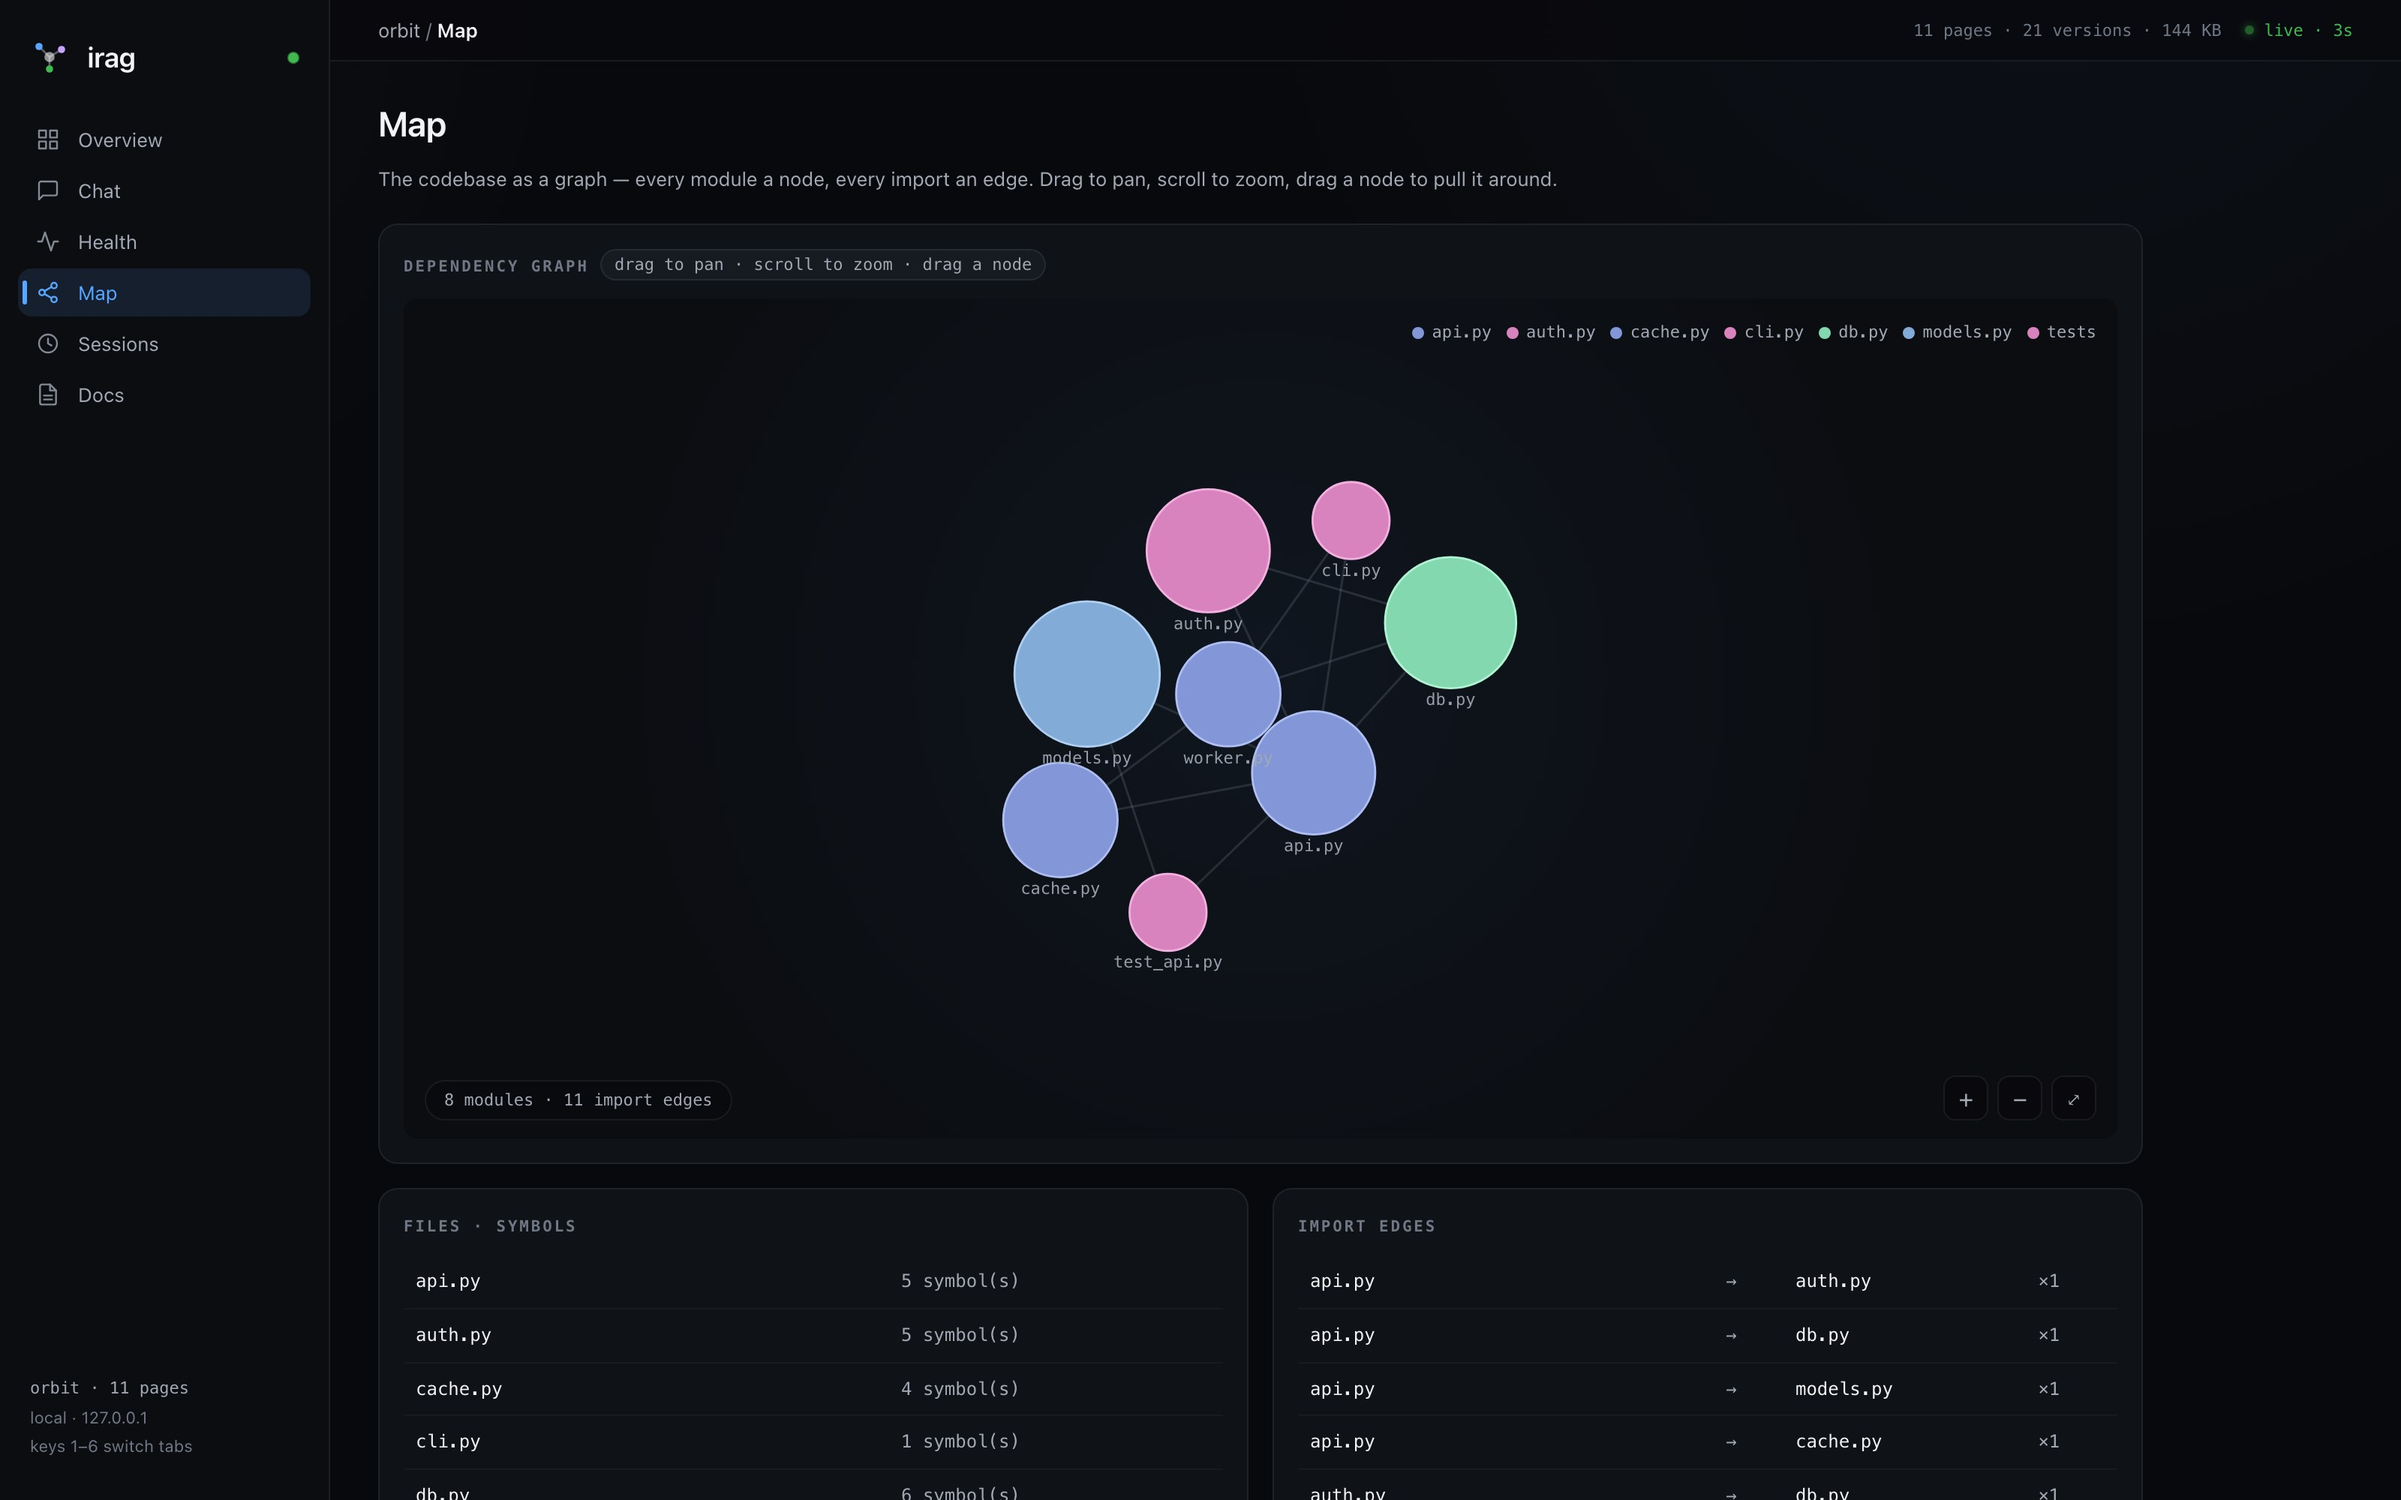
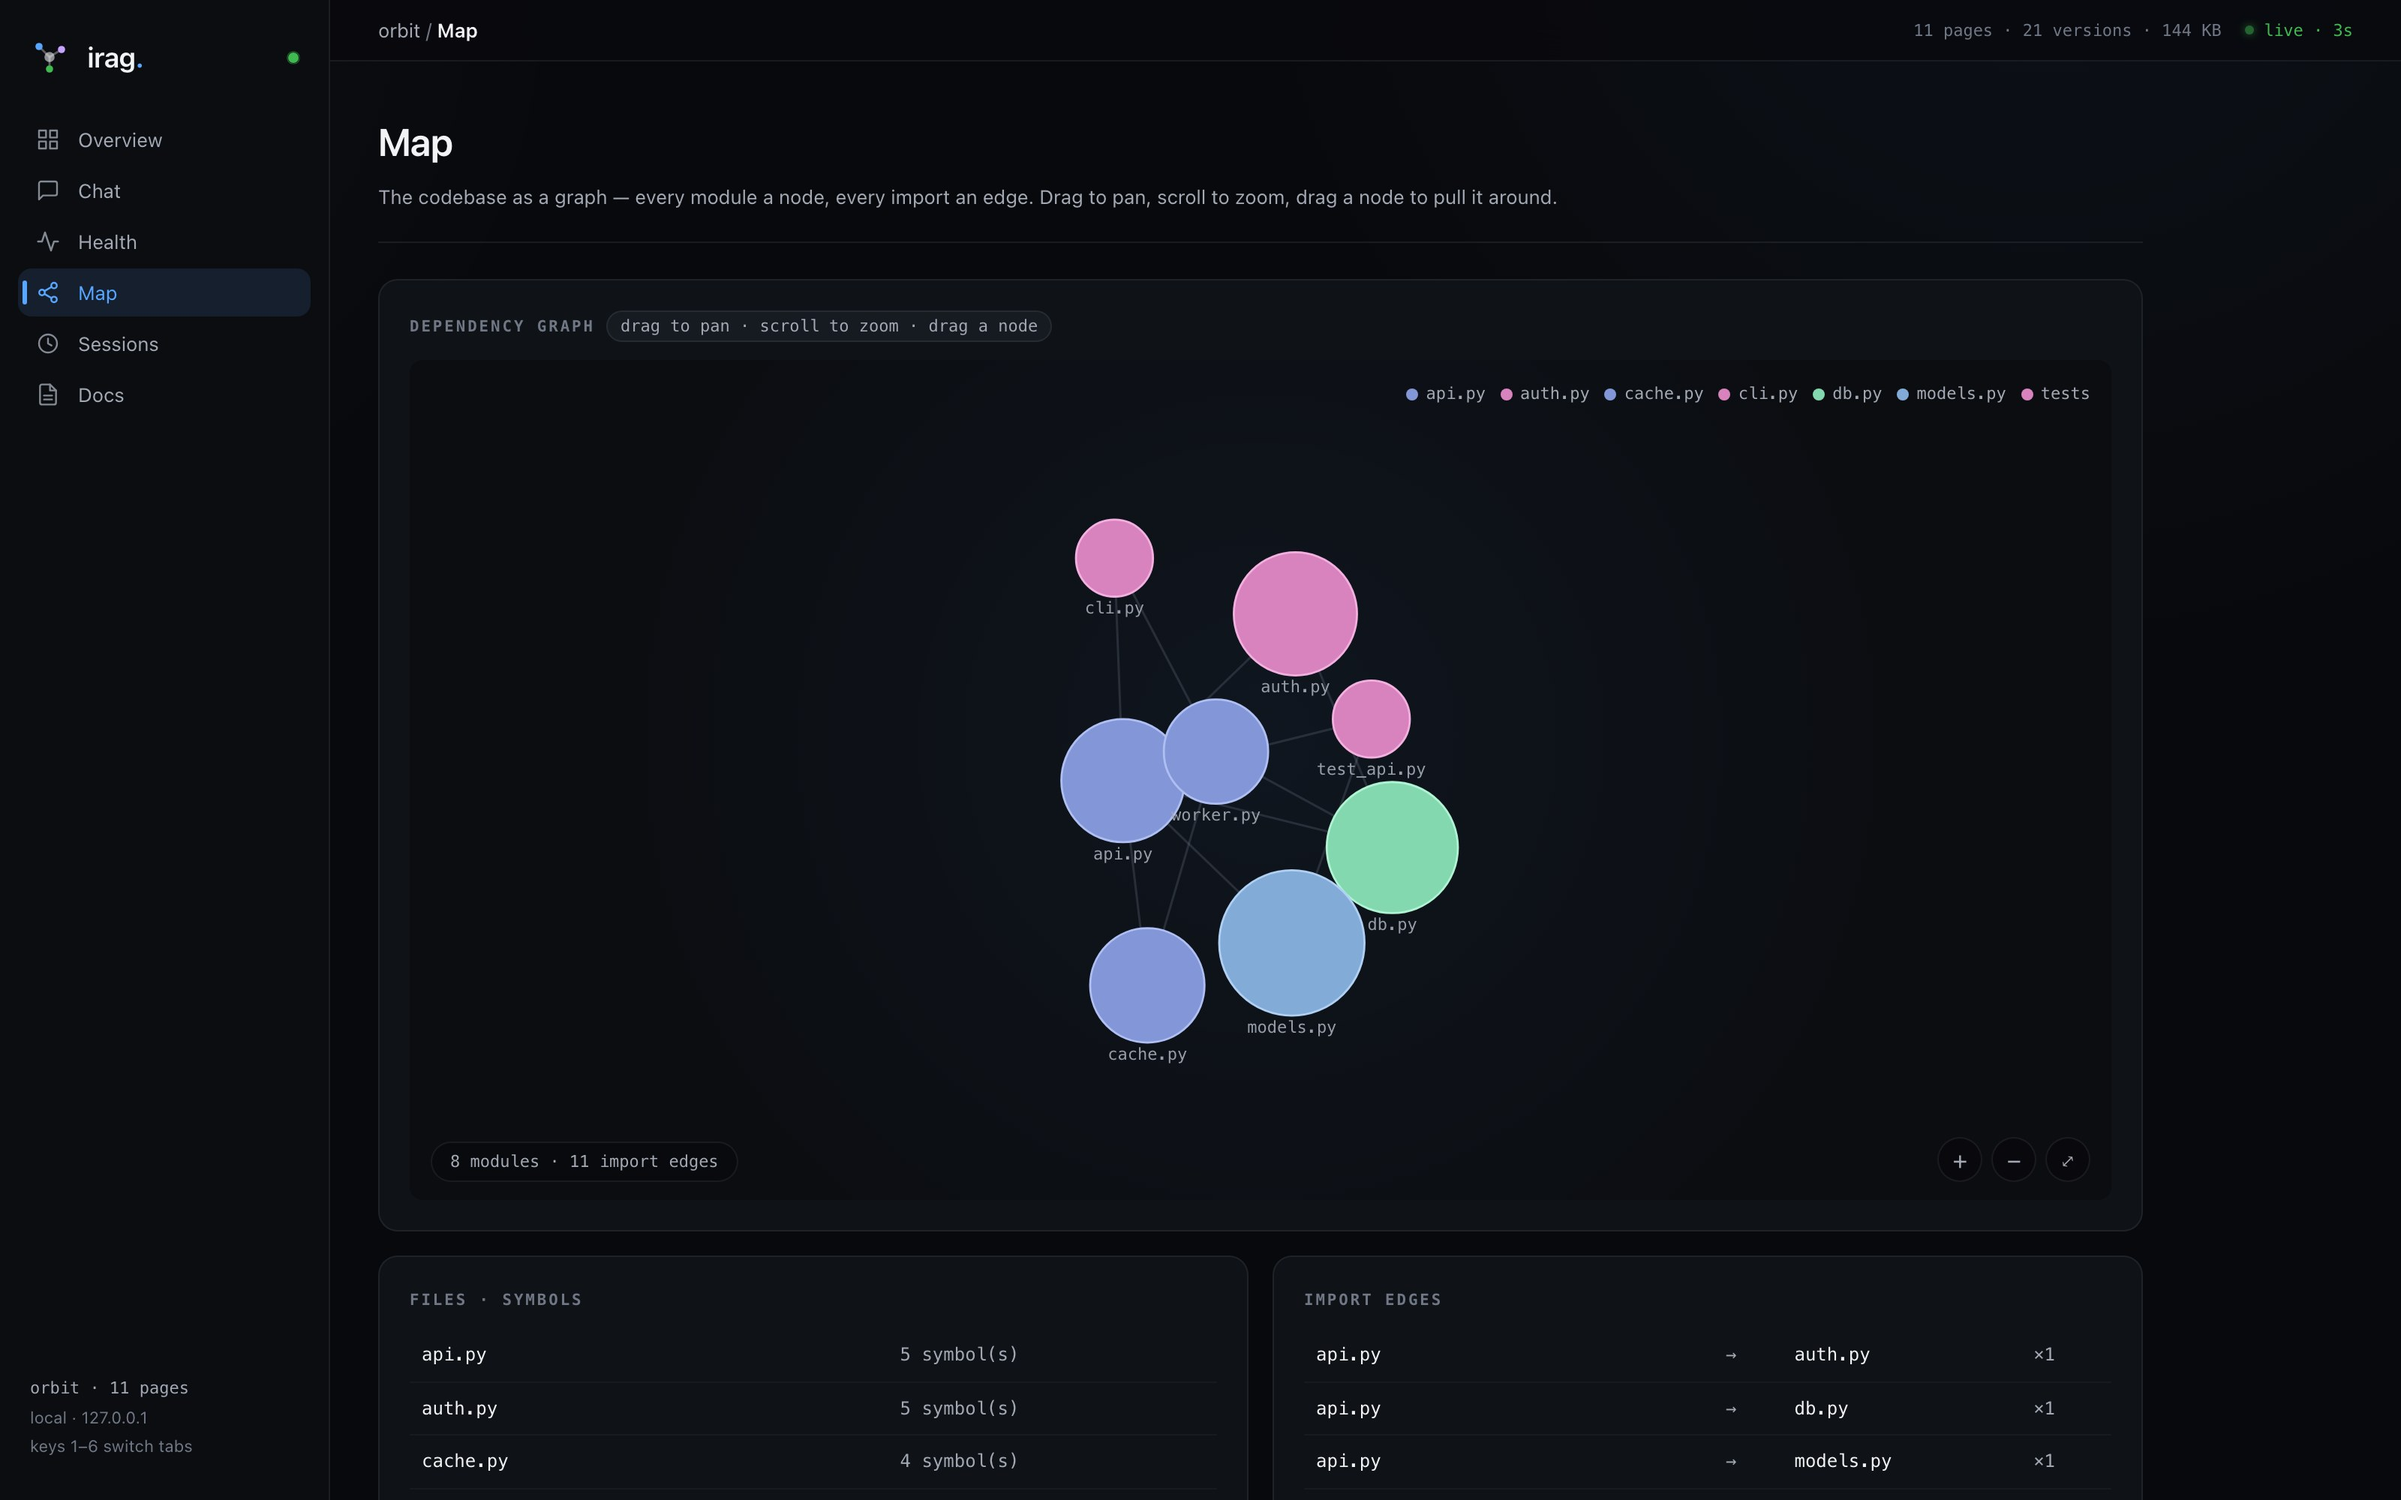
dashboard: editorial pass — hairline stat ledger, brand-blue burn curve
Brings the dashboard all the way to the landing page's language:

- metric cards become a hairline-divided stat ledger (3x3, exact fill;
  2-col with a hero stat on mobile) — no boxes, Clash Display numerals,
  mono labels; count-up kept, hover-lift dropped
- token-burn chart moves from purple to the single brand accent, with
  a fainter hairline grid; purple stays reserved for scribe/AI
  semantics (chat badge, session feed)
- editorial page headers: larger Clash title over a hairline rule
- "irag." wordmark with accent period in the sidebar; pill chat input,
  select, and graph controls; roomier panels
- screenshots reshot against the orbit demo

Claude-Session: https://claude.ai/code/session_01VYf8pUQAisT59RMyMxBxwc

diff --git a/irag/assets/dashboard.html b/irag/assets/dashboard.html
@@ -59,6 +59,7 @@ a{color:var(--accent)}
 @media (prefers-reduced-motion: no-preference){.brand .logo .core{animation:corepulse 3s ease-in-out infinite}}
 @keyframes corepulse{50%{opacity:.55}}
 .brand b{font-family:var(--display);font-size:1.15rem;font-weight:600;letter-spacing:-.01em}
+.brand .bdot{color:var(--accent)}
 .brand .dot{position:relative;width:7px;height:7px;border-radius:50%;background:var(--green);flex-shrink:0;margin-left:auto}
 .brand .dot::after{content:"";position:absolute;inset:-4px;border-radius:50%;border:1px solid var(--green)}
 @media (prefers-reduced-motion: no-preference){.brand .dot::after{animation:ring 2.4s ease-out infinite}
@@ -94,9 +95,10 @@ nav.tabs button.active::before{content:"";position:absolute;left:3px;top:50%;tra
 .tb-live.off .d{background:var(--red);box-shadow:0 0 6px var(--red);animation:none}
 @media (prefers-reduced-motion: no-preference){.tb-live .d{animation:blink 2s ease-in-out infinite}}
 @keyframes blink{50%{opacity:.4}}
-main{padding:var(--sp-6) var(--sp-8);max-width:1240px;width:100%}
-h2.page-title{font-family:var(--display);font-size:1.45rem;font-weight:600;letter-spacing:-.01em;margin-bottom:var(--sp-2)}
-.page-sub{color:var(--text-dim);font-size:var(--fs-sm);margin-bottom:var(--sp-5)}
+main{padding:34px var(--sp-8) 60px;max-width:1240px;width:100%}
+h2.page-title{font-family:var(--display);font-size:1.6rem;font-weight:600;letter-spacing:-.015em;margin-bottom:6px}
+.page-sub{color:var(--text-dim);font-size:var(--fs-sm);padding-bottom:var(--sp-5);
+  border-bottom:1px solid var(--border);margin-bottom:var(--sp-6)}
 
 section{display:none}
 section.show{display:block}
@@ -105,24 +107,18 @@ section.show{display:block}
 
 :focus-visible{outline:2px solid var(--accent-ring);outline-offset:2px;border-radius:var(--r-sm)}
 
-/* ---------- metric cards ---------- */
-.grid-cards{display:grid;grid-template-columns:repeat(auto-fill,minmax(176px,1fr));gap:var(--sp-3)}
-.card{position:relative;overflow:hidden;background:var(--panel);
-  border:1px solid var(--border);border-radius:var(--r-lg);padding:var(--sp-4) var(--sp-4) var(--sp-5)}
-.card::before{content:"";position:absolute;top:0;left:0;right:0;height:1px;
-  background:linear-gradient(90deg,transparent,rgba(255,255,255,.06),transparent)}
+/* ---------- metric strip: hairline ledger, no boxes ---------- */
+.grid-cards{display:grid;grid-template-columns:repeat(3,1fr);gap:1px;
+  background:var(--border);border-top:1px solid var(--border);border-bottom:1px solid var(--border)}
+.card{position:relative;background:var(--bg);padding:18px 20px 22px;min-width:0}
 @media (prefers-reduced-motion: no-preference){
-  .card{animation:card-in .5s var(--ease) both;animation-delay:calc(var(--i,0)*35ms);
-    transition:transform var(--dur) var(--ease),border-color var(--dur),box-shadow var(--dur)}
-  .card:hover{transform:translateY(-3px);border-color:var(--border-strong);box-shadow:0 12px 30px -14px rgba(0,0,0,.8)}}
+  .card{animation:card-in .5s var(--ease) both;animation-delay:calc(var(--i,0)*35ms)}}
 @keyframes card-in{from{opacity:0;transform:translateY(10px)}to{opacity:1;transform:none}}
 .card-h{display:flex;align-items:center;gap:var(--sp-2);color:var(--text-dim);min-width:0}
-.card-ic{display:flex;color:var(--text-faint);flex-shrink:0}.card-ic svg{width:14px;height:14px}
 .card .label{font-family:var(--mono);font-size:.65rem;text-transform:uppercase;letter-spacing:.12em;
-  white-space:nowrap;overflow:hidden;text-overflow:ellipsis}
-.card .value{font-family:var(--display);font-size:1.85rem;font-weight:600;margin-top:var(--sp-3);
+  white-space:nowrap;overflow:hidden;text-overflow:ellipsis;color:var(--text-faint)}
+.card .value{font-family:var(--display);font-size:2rem;font-weight:600;margin-top:12px;
   font-variant-numeric:tabular-nums;letter-spacing:-.02em}
-.card .value.burn{color:var(--purple)}
 .card .value.bad{color:var(--red)}
 .card .value.warn{color:var(--orange)}
 .card .value.ok{color:var(--green)}
@@ -130,7 +126,7 @@ section.show{display:block}
 .row{display:grid;grid-template-columns:2fr 1fr;gap:var(--sp-4);margin-top:var(--sp-4)}
 @media (max-width:900px){.row{grid-template-columns:1fr}}
 .panel{position:relative;background:var(--panel);border:1px solid var(--border);
-  border-radius:var(--r-lg);padding:var(--sp-4)}
+  border-radius:var(--r-lg);padding:var(--sp-5)}
 .panel h3{font-family:var(--mono);font-size:.65rem;color:var(--text-faint);text-transform:uppercase;
   letter-spacing:.14em;margin-bottom:var(--sp-3);
   display:flex;align-items:center;gap:var(--sp-2);font-weight:600}
@@ -211,11 +207,11 @@ button.mini:disabled{opacity:.5;cursor:default;border-color:var(--border)}
 .hit:last-child{border-bottom:none}
 .hit b{color:var(--accent)}
 #chat-form{display:flex;gap:var(--sp-2);padding-top:var(--sp-3)}
-#chat-input{flex:1;background:var(--bg-inset);border:1px solid var(--border);border-radius:var(--r-md);color:var(--text);
-  padding:11px 13px;font-size:var(--fs-base);font-family:inherit}
+#chat-input{flex:1;background:var(--bg-inset);border:1px solid var(--border);border-radius:999px;color:var(--text);
+  padding:11px 18px;font-size:var(--fs-base);font-family:inherit}
 #chat-input::placeholder{color:var(--text-faint)}
 #chat-input:focus{outline:none;border-color:var(--accent);box-shadow:0 0 0 3px var(--accent-dim)}
-select{background:var(--bg-inset);color:var(--text);border:1px solid var(--border);border-radius:var(--r-md);padding:0 8px;font-family:inherit;font-size:var(--fs-sm);cursor:pointer}
+select{background:var(--bg-inset);color:var(--text);border:1px solid var(--border);border-radius:999px;padding:0 12px;font-family:inherit;font-size:var(--fs-sm);cursor:pointer}
 #chat-input:disabled{opacity:.55;cursor:not-allowed}
 .msg.bot.thinking{color:var(--text-dim)}
 .typing{display:inline-flex;gap:5px;align-items:center;height:16px}
@@ -282,7 +278,7 @@ select{background:var(--bg-inset);color:var(--text);border:1px solid var(--borde
 .leg{display:flex;align-items:center;gap:5px;font-size:var(--fs-2xs);color:var(--text-dim);font-family:var(--mono)}
 .leg i{width:8px;height:8px;border-radius:50%;flex-shrink:0}
 .graph-ctrl{position:absolute;right:14px;bottom:12px;display:flex;gap:6px}
-.graph-ctrl button{width:30px;height:30px;border-radius:8px;border:1px solid var(--border);background:rgba(8,9,12,.82);
+.graph-ctrl button{width:30px;height:30px;border-radius:999px;border:1px solid var(--border);background:rgba(8,9,12,.82);
   color:var(--text-dim);font-size:16px;line-height:1;cursor:pointer;backdrop-filter:blur(6px);
   display:flex;align-items:center;justify-content:center;font-family:inherit}
 .graph-ctrl button:hover{color:var(--text);border-color:var(--accent)}
@@ -298,6 +294,8 @@ select{background:var(--bg-inset);color:var(--text);border:1px solid var(--borde
   nav.tabs button.active::before{display:none}
   .sidebar-foot{display:none}
   main{padding:var(--sp-4)}.topbar{padding:10px var(--sp-4)}
+  .grid-cards{grid-template-columns:1fr 1fr}
+  .grid-cards .card:first-child{grid-column:1/-1}
 }
 </style>
 </head>
@@ -314,7 +312,7 @@ select{background:var(--bg-inset);color:var(--text);border:1px solid var(--borde
         <circle cx="13" cy="21" r="2.4" fill="#3fb950"/>
         <circle class="core" cx="13" cy="13" r="3.4" fill="#f2f3f5"/>
       </svg>
-      <b>irag</b><span class="dot" id="live-dot" title="live"></span>
+      <b>irag<span class="bdot">.</span></b><span class="dot" id="live-dot" title="live"></span>
     </div>
     <nav class="tabs" aria-label="Dashboard sections">
       <button data-tab="overview" aria-label="Overview" class="active"><svg viewBox="0 0 24 24" fill="none" stroke="currentColor" stroke-width="1.8" stroke-linecap="round" stroke-linejoin="round"><rect x="3" y="3" width="7" height="7"/><rect x="14" y="3" width="7" height="7"/><rect x="14" y="14" width="7" height="7"/><rect x="3" y="14" width="7" height="7"/></svg><span>Overview</span></button>
@@ -349,6 +347,8 @@ select{background:var(--bg-inset);color:var(--text);border:1px solid var(--borde
       <div class="card skel-card"><div class="card-h"><span class="label">pages</span></div><div class="value skel"></div></div>
       <div class="card skel-card"><div class="card-h"><span class="label">versions</span></div><div class="value skel"></div></div>
       <div class="card skel-card"><div class="card-h"><span class="label">contradictions</span></div><div class="value skel"></div></div>
+      <div class="card skel-card"><div class="card-h"><span class="label">queue</span></div><div class="value skel"></div></div>
+      <div class="card skel-card"><div class="card-h"><span class="label">symbols</span></div><div class="value skel"></div></div>
     </div>
     <div class="row">
       <div class="panel">
@@ -523,7 +523,7 @@ function countUp(el,to){
 
 /* ---------- overview ---------- */
 const CARDS=[
-  {key:"tokens",label:"est tokens",ic:IC.bolt,tone:()=>"burn",num:true,get:s=>s.est_tokens_spent},
+  {key:"tokens",label:"est tokens",ic:IC.bolt,num:true,get:s=>s.est_tokens_spent},
   {key:"pages",label:"pages · file/folder",ic:IC.layers,get:s=>s.file_pages+" / "+s.folder_pages},
   {key:"versions",label:"page versions",ic:IC.hist,num:true,get:s=>s.revisions},
   {key:"contra",label:"contradictions",ic:IC.alert,tone:s=>s.open_contradictions?"bad":"ok",num:true,get:s=>s.open_contradictions},
@@ -536,7 +536,7 @@ const CARDS=[
 let cardsBuilt=false,lastTokens=null;
 function buildCards(){
   $("#cards").innerHTML=CARDS.map((d,i)=>
-    `<div class="card" style="--i:${i}"><div class="card-h"><span class="card-ic">${d.ic}</span>
+    `<div class="card" style="--i:${i}"><div class="card-h">
       <span class="label">${d.label}</span></div><div class="value" data-key="${d.key}">—</div></div>`).join("");
 }
 async function refreshStatus(){
@@ -572,20 +572,20 @@ async function refreshBurn(){
   const max=Math.max(...d.map(p=>p.cum),1),min=Math.min(...d.map(p=>p.cum),0);
   const X=i=>pad.l+i/Math.max(d.length-1,1)*(W-pad.l-pad.r);
   const Y=v=>H-pad.b-((v-min)/Math.max(max-min,1))*(H-pad.t-pad.b);
-  g.strokeStyle="rgba(38,45,56,.9)";g.lineWidth=1;g.font="10px "+MONO;
+  g.strokeStyle="rgba(235,240,255,.06)";g.lineWidth=1;g.font="10px "+MONO;
   for(let k=0;k<=3;k++){const val=min+(max-min)*k/3,y=Y(val);
     g.beginPath();g.moveTo(pad.l,y);g.lineTo(W-pad.r,y);g.stroke();
-    g.fillStyle="rgba(107,116,128,.9)";g.fillText(fmt(Math.round(val)),pad.l+2,y-3)}
+    g.fillStyle="rgba(112,120,133,.85)";g.fillText(fmt(Math.round(val)),pad.l+2,y-3)}
   const grad=g.createLinearGradient(0,pad.t,0,H-pad.b);
-  grad.addColorStop(0,"rgba(200,162,255,.30)");grad.addColorStop(1,"rgba(200,162,255,0)");
+  grad.addColorStop(0,"rgba(88,166,255,.26)");grad.addColorStop(1,"rgba(88,166,255,0)");
   g.beginPath();g.moveTo(X(0),Y(d[0].cum));d.forEach((p,i)=>g.lineTo(X(i),Y(p.cum)));
   g.lineTo(X(d.length-1),H-pad.b);g.lineTo(X(0),H-pad.b);g.closePath();g.fillStyle=grad;g.fill();
-  g.save();g.shadowColor="rgba(200,162,255,.65)";g.shadowBlur=9;
+  g.save();g.shadowColor="rgba(88,166,255,.55)";g.shadowBlur=9;
   g.beginPath();g.moveTo(X(0),Y(d[0].cum));d.forEach((p,i)=>g.lineTo(X(i),Y(p.cum)));
-  g.strokeStyle="#c8a2ff";g.lineWidth=2.2;g.lineJoin="round";g.stroke();g.restore();
+  g.strokeStyle="#58a6ff";g.lineWidth=2;g.lineJoin="round";g.stroke();g.restore();
   const lx=X(d.length-1),ly=Y(d[d.length-1].cum);
-  g.beginPath();g.arc(lx,ly,3.5,0,7);g.fillStyle="#dcc4ff";g.fill();
-  g.beginPath();g.arc(lx,ly,7,0,7);g.strokeStyle="rgba(200,162,255,.45)";g.lineWidth=1.5;g.stroke();
+  g.beginPath();g.arc(lx,ly,3.5,0,7);g.fillStyle="#9cc7ff";g.fill();
+  g.beginPath();g.arc(lx,ly,7,0,7);g.strokeStyle="rgba(88,166,255,.4)";g.lineWidth=1.5;g.stroke();
   g.fillStyle="#f2f3f5";g.font="600 13px "+SANS;g.textAlign="right";
   g.fillText(fmt(d[d.length-1].cum)+" tok",W-pad.r,pad.t-4);g.textAlign="left";
   if(!burnRevealed&&!reduceMotion){c.classList.add("burn-reveal");burnRevealed=true}
